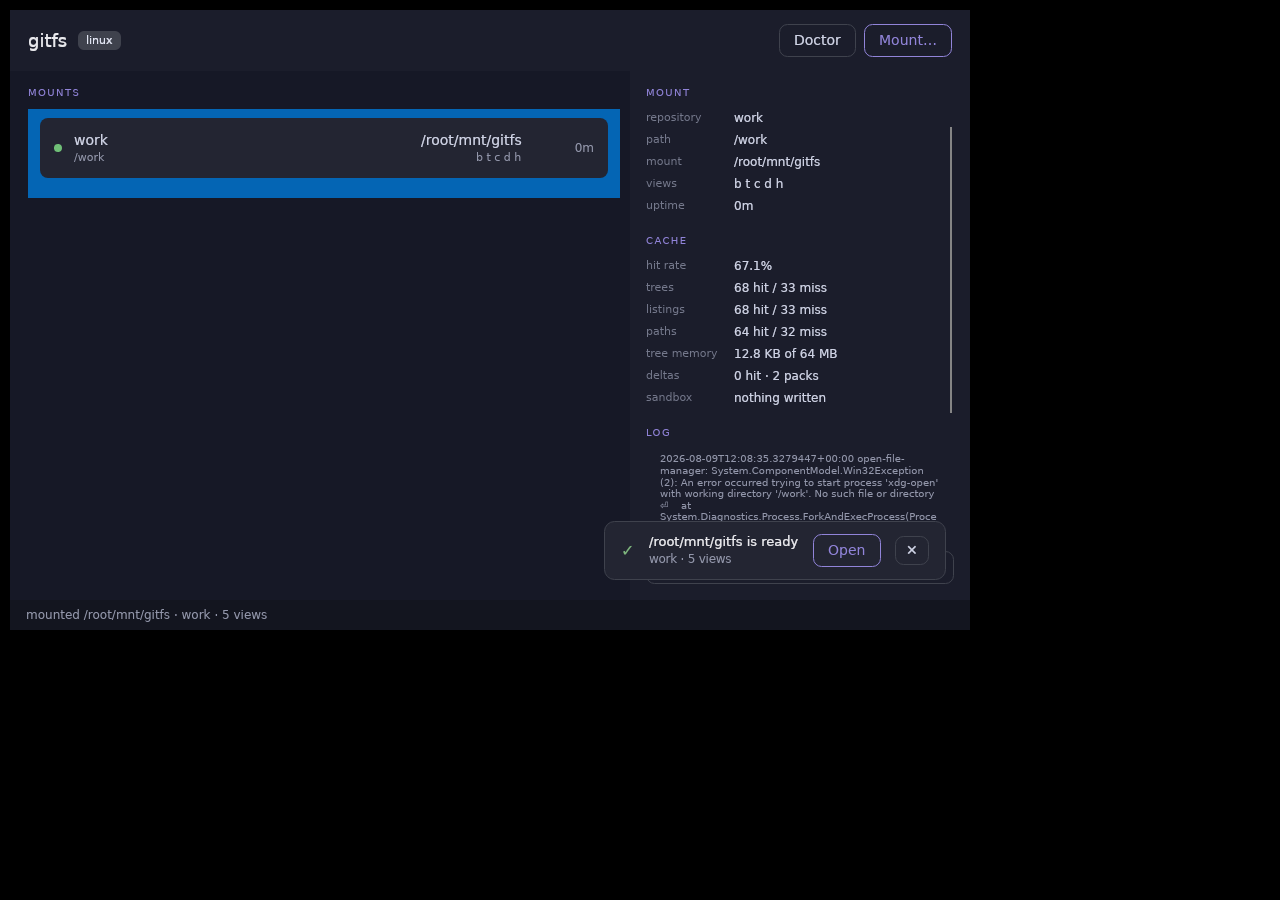
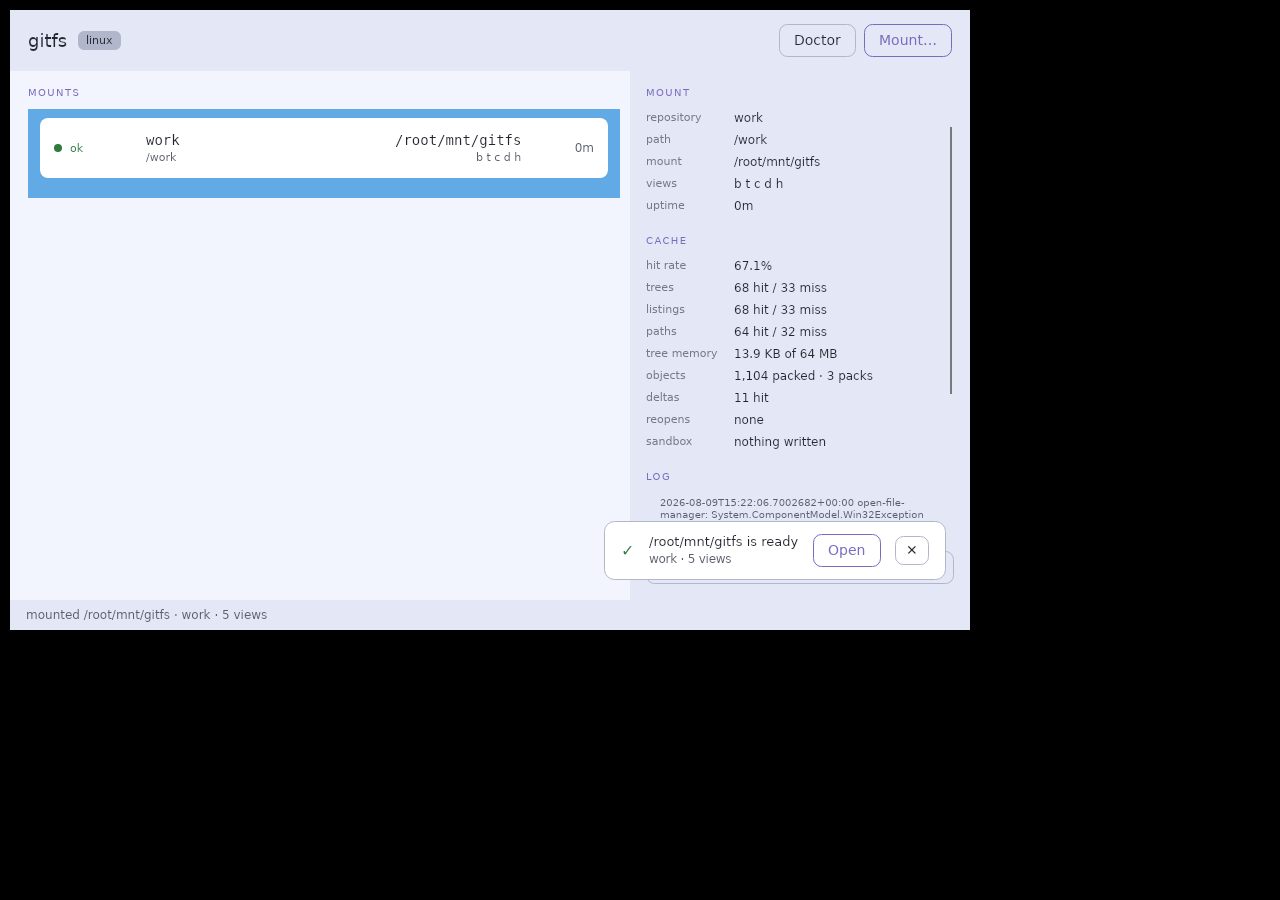
feat: комплект знаков дизайн-отдела в интерфейсе
Аудит показал: одиннадцать из тринадцати SVG «не существуют ни в каком
виде». В репозитории — да; в истории они лежали целыми, их просто снесли
вместе с docs/design. Вернул и пустил в дело.

Иконки пяти вьюх появились в списке диалога — там, где макет их и рисует.
Перевод в геометрию Avalonia делает tools/svg-to-axaml.js: путь остаётся
путём, rect и circle разворачиваются в дуги. Никаких новых зависимостей:
рисовать SVG умеет отдельный пакет, а эти знаки — простые обводки, и
Path.Data понимает их синтаксис как есть. Обводка и заливка разнесены —
часть кружков в исходниках залита, и рисовать их обводкой значит получить
кольцо вместо точки.

README догнал продукт: дерево тома показывает .gitfs/, в командах есть list,
среди ключей --views, сказано про обе темы. Снимки пересняты контуром.

Чего в этом коммите НЕТ и почему: иконки корневых папок в Проводнике через
desktop.ini. Механизм требует, чтобы том отдавал и desktop.ini, и .ico на
каждую вьюху, а результат виден только в самом Проводнике — проверить его
здесь нечем, и класть в продукт машинерию, работоспособность которой не
подтверждена ничем, я не стал. Знаки для неё теперь в репозитории есть.

diff --git a/tools/svg-to-axaml.js b/tools/svg-to-axaml.js
@@ -1,0 +1,60 @@
+const fs=require("fs");
+const dir="src/Gitfs.App/Assets/icons";
+const want=["mark-min","folder","view-branches","view-tags","view-commits","view-dates",
+            "view-history","view-system","marker-truncated","marker-submodule"];
+
+const num=s=>parseFloat(s);
+function rectPath(a){
+  const x=num(a.x),y=num(a.y),w=num(a.width),h=num(a.height),r=a.rx?num(a.rx):0;
+  if(!r) return `M${x} ${y}H${x+w}V${y+h}H${x}Z`;
+  return `M${x+r} ${y}H${x+w-r}A${r} ${r} 0 0 1 ${x+w} ${y+r}`+
+         `V${y+h-r}A${r} ${r} 0 0 1 ${x+w-r} ${y+h}`+
+         `H${x+r}A${r} ${r} 0 0 1 ${x} ${y+h-r}`+
+         `V${y+r}A${r} ${r} 0 0 1 ${x+r} ${y}Z`;
+}
+function circlePath(a){
+  const cx=num(a.cx),cy=num(a.cy),r=num(a.r);
+  return `M${cx-r} ${cy}A${r} ${r} 0 1 0 ${cx+r} ${cy}A${r} ${r} 0 1 0 ${cx-r} ${cy}Z`;
+}
+const attrs=t=>Object.fromEntries([...t.matchAll(/([a-zA-Z-]+)="([^"]*)"/g)].map(m=>[m[1],m[2]]));
+
+const out=[];
+for(const name of want){
+  const file=`${dir}/${name}.svg`;
+  if(!fs.existsSync(file)){ console.error("нет",name); continue; }
+  const svg=fs.readFileSync(file,"utf8").replace(/\n/g," ");
+  const stroke=[], fill=[];
+  for(const m of svg.matchAll(/<(path|rect|circle)\b([^>]*)>/g)){
+    const a=attrs(m[2]);
+    let d = m[1]==="path" ? a.d : m[1]==="rect" ? rectPath(a) : circlePath(a);
+    if(!d) continue;
+    (a.fill==="currentColor" ? fill : stroke).push(d);
+  }
+  out.push({name, stroke:stroke.join(" "), fill:fill.join(" ")});
+}
+
+const lines = out.map(i=>{
+  let s=`  <StreamGeometry x:Key="Ic${i.name.split(/[-_]/).map(p=>p[0].toUpperCase()+p.slice(1)).join("")}Stroke">${i.stroke}</StreamGeometry>`;
+  if(i.fill) s+=`\n  <StreamGeometry x:Key="Ic${i.name.split(/[-_]/).map(p=>p[0].toUpperCase()+p.slice(1)).join("")}Fill">${i.fill}</StreamGeometry>`;
+  return s;
+}).join("\n");
+
+fs.writeFileSync("src/Gitfs.App/Icons.axaml",
+`<ResourceDictionary xmlns="https://github.com/avaloniaui"
+                    xmlns:x="http://schemas.microsoft.com/winfx/2006/xaml">
+
+  <!-- Комплект знаков дизайн-отдела, переведённый в геометрию Avalonia.
+       Исходники — Assets/icons/*.svg, перевод делает tools/svg-to-axaml.js:
+       путь остаётся путём, rect и circle разворачиваются в дуги. Никаких
+       новых зависимостей: рисовать SVG в Avalonia умеет отдельный пакет, а
+       эти знаки — простые обводки, и Path.Data понимает их синтаксис как есть.
+
+       Stroke и Fill разнесены: в исходниках часть кружков залита
+       (fill="currentColor"), и рисовать их обводкой значит получить кольцо
+       вместо точки. -->
+
+${lines}
+</ResourceDictionary>
+`);
+console.log("иконок:", out.length);
+for(const i of out) console.log(" ", i.name, "stroke:", i.stroke.length, "fill:", i.fill.length);

diff --git a/README.md b/README.md
@@ -10,10 +10,12 @@ G:\
 ├─ tags\v1.0\                          выпущенные версии
 ├─ commits\a3f9c21\                    снимок любого коммита
 ├─ dates\2026-08-07\                   каким проект был в тот день
-└─ history\src\Program.cs\             ← файл раскрылся папкой
-      0001-a3f9c21.cs
-      0002-8b04e77.cs
-      latest.cs
+├─ history\src\Program.cs\             ← файл раскрылся папкой
+│     0001-a3f9c21.cs
+│     0002-8b04e77.cs
+│     latest.cs
+└─ .gitfs\                            диагностика внутри самого тома
+      status.txt  log.txt  overlay\
 ```
 
 Посмотреть, чем был файл три месяца назад, не делая `checkout`, не трогая
@@ -62,6 +64,7 @@ gitfs mount C:\src\myrepo G:        # Ctrl+C размонтирует
 gitfs mount ~/src/myrepo /mnt/gitfs
 gitfs doctor .                      # что не так с окружением
 gitfs tree . history/README.md      # обойти дерево без монтирования
+gitfs list                          # какие тома держит gitfs
 gitfs purge                         # убрать песочницы после аварий
 ```
 
@@ -76,8 +79,13 @@ gitfs mount . /mnt/gitfs --read-only --history-ref=v1.0 --commit-limit=50
 gitfs tree  . history --history-ref=v1.0     # история такой, какой была тогда
 ```
 
-`--keep-overlay`, `--portable-names`, `--history-limit`, `--cache-mb`,
-`--max-blob-mb` — там же; `gitfs --help` перечисляет все.
+`--views`, `--keep-overlay`, `--portable-names`, `--history-limit`,
+`--cache-mb`, `--max-blob-mb` — там же; `gitfs --help` перечисляет все.
+
+Что именно делает том прямо сейчас, видно **не выходя из тома**: `.gitfs/`
+держит `status.txt` со счётчиками кэшей и пакетов, `log.txt` с событиями
+(обрезание истории, переоткрытие пакетов) и `overlay/` — только для чтения,
+чтобы видеть, что записано в песочницу.
 
 ### Приложение
 
@@ -87,7 +95,7 @@ dist/win-x64/Gitfs.App.exe
 
 Окно со списком монтирований, живыми счётчиками кэша и хвостом журнала;
 диалог с превью дерева и настройками, каждая из которых действует; иконка в
-трее, где состояние читается формой значка, а не только цветом. Один код на
+трее, где состояние читается формой значка, а не только цветом. Светлая и тёмная темы, по умолчанию — как в системе. Один код на
 Avalonia; монтируют Windows и Linux, на macOS кнопка заблокирована с
 указанием причины.
 
@@ -173,7 +181,7 @@ tools/linux-check.sh                          # весь Linux-контур в d
 tools/gui-check.sh                            # окна под Xvfb, со снимками
 ```
 
-412 тестов, одно и то же число на обеих платформах — и приёмка против
+452 теста, одно и то же число на обеих платформах — и приёмка против
 **смонтированного диска**, по два прогона на каждой платформе в CI на
 раннерах GitHub.
 
